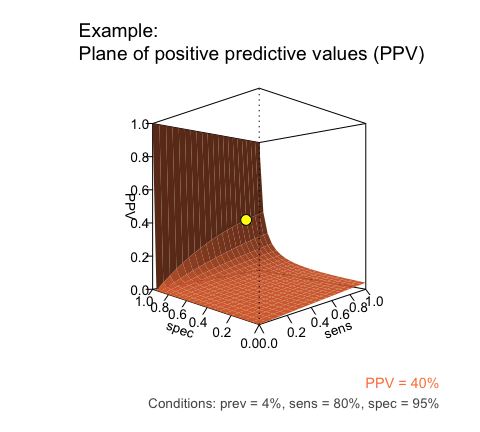
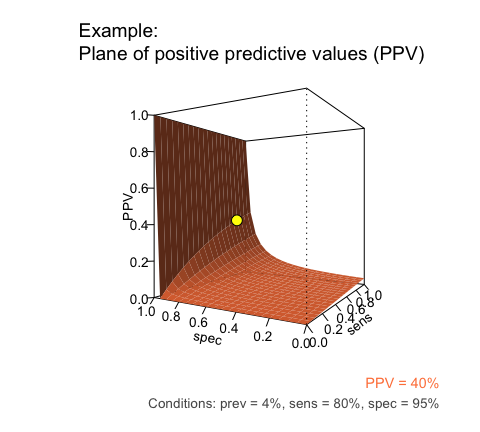
add explanation to plane (and rotate image to theta = -60 to illustrate L-shape more clearly)

Changed region(s): [[0.25, 0.1806, 0.8125, 0.8125]]

diff --git a/README.md b/README.md
@@ -118,7 +118,7 @@ summary(hustosis)  # summarizes key parameter values
 #> Decision:  screening test 
 #> Population:  representative sample 
 #> N =  1000 
-#> Source:  Source information for this scenario 
+#> Source:  Source information 
 #> 
 #> Probabilities:
 #> 
@@ -204,10 +204,12 @@ plot(hustosis, plot.type = "curve")   # plot curves (as a function of prevalence
 #### Planes
 
 ``` r
-plot(hustosis, plot.type = "plane")   # plot plane (as a function of sens x spec):
+plot(hustosis, plot.type = "plane", theta = -60)  # plot plane (as a function of sens x spec):
 ```
 
 ![](inst/pix/README-ex1_plane-1.png)
+
+The L-shape of this plane reveals a real problem with our current test: Given a prevalence of 4% for hustosis in our target population, the `PPV` remains very low for the majority of the possible range of sensitivity and specificity values. To achieve a high `PPV`, the key requirement for our test is an extremely high specificity. While our current value of 95% (`spec = .95`) may sound pretty good, it still is not high enough to yield a `PPV` beyond 40%.
 
 ### Using existing scenarios
 
